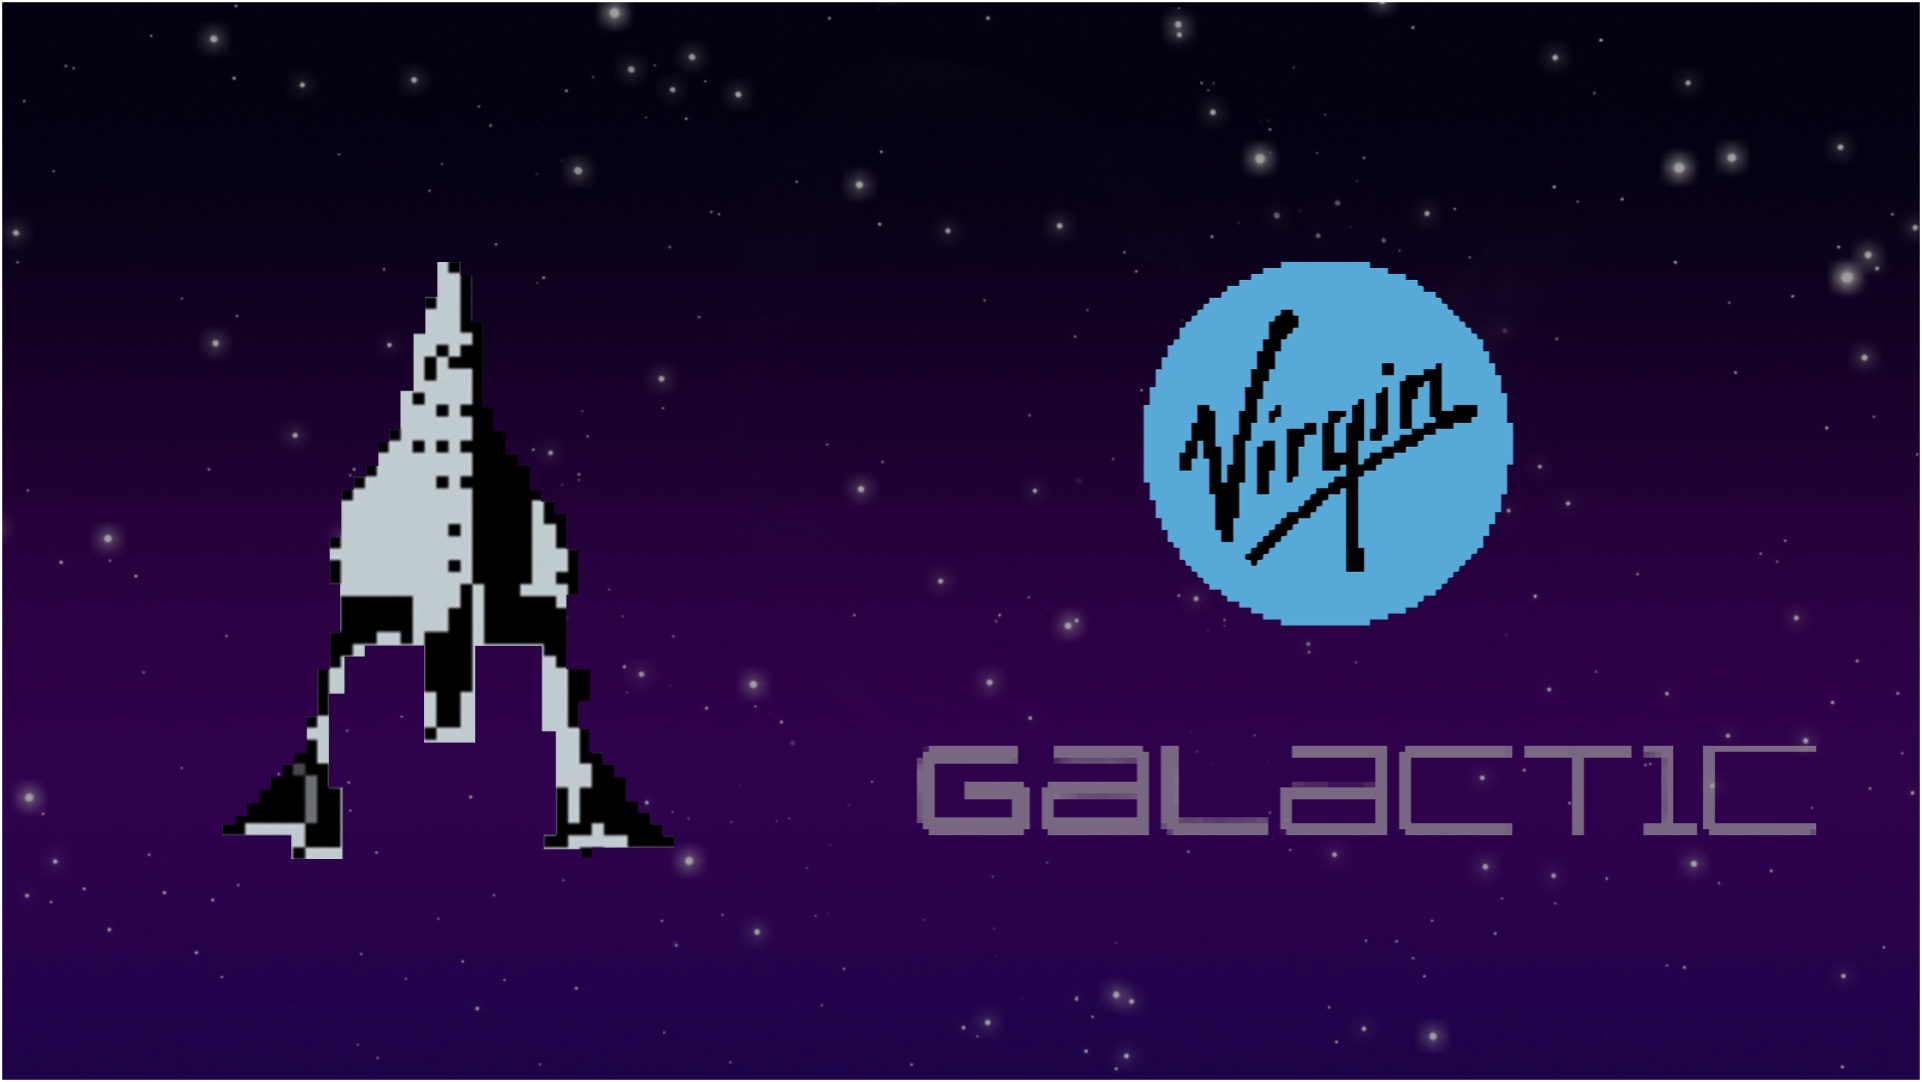
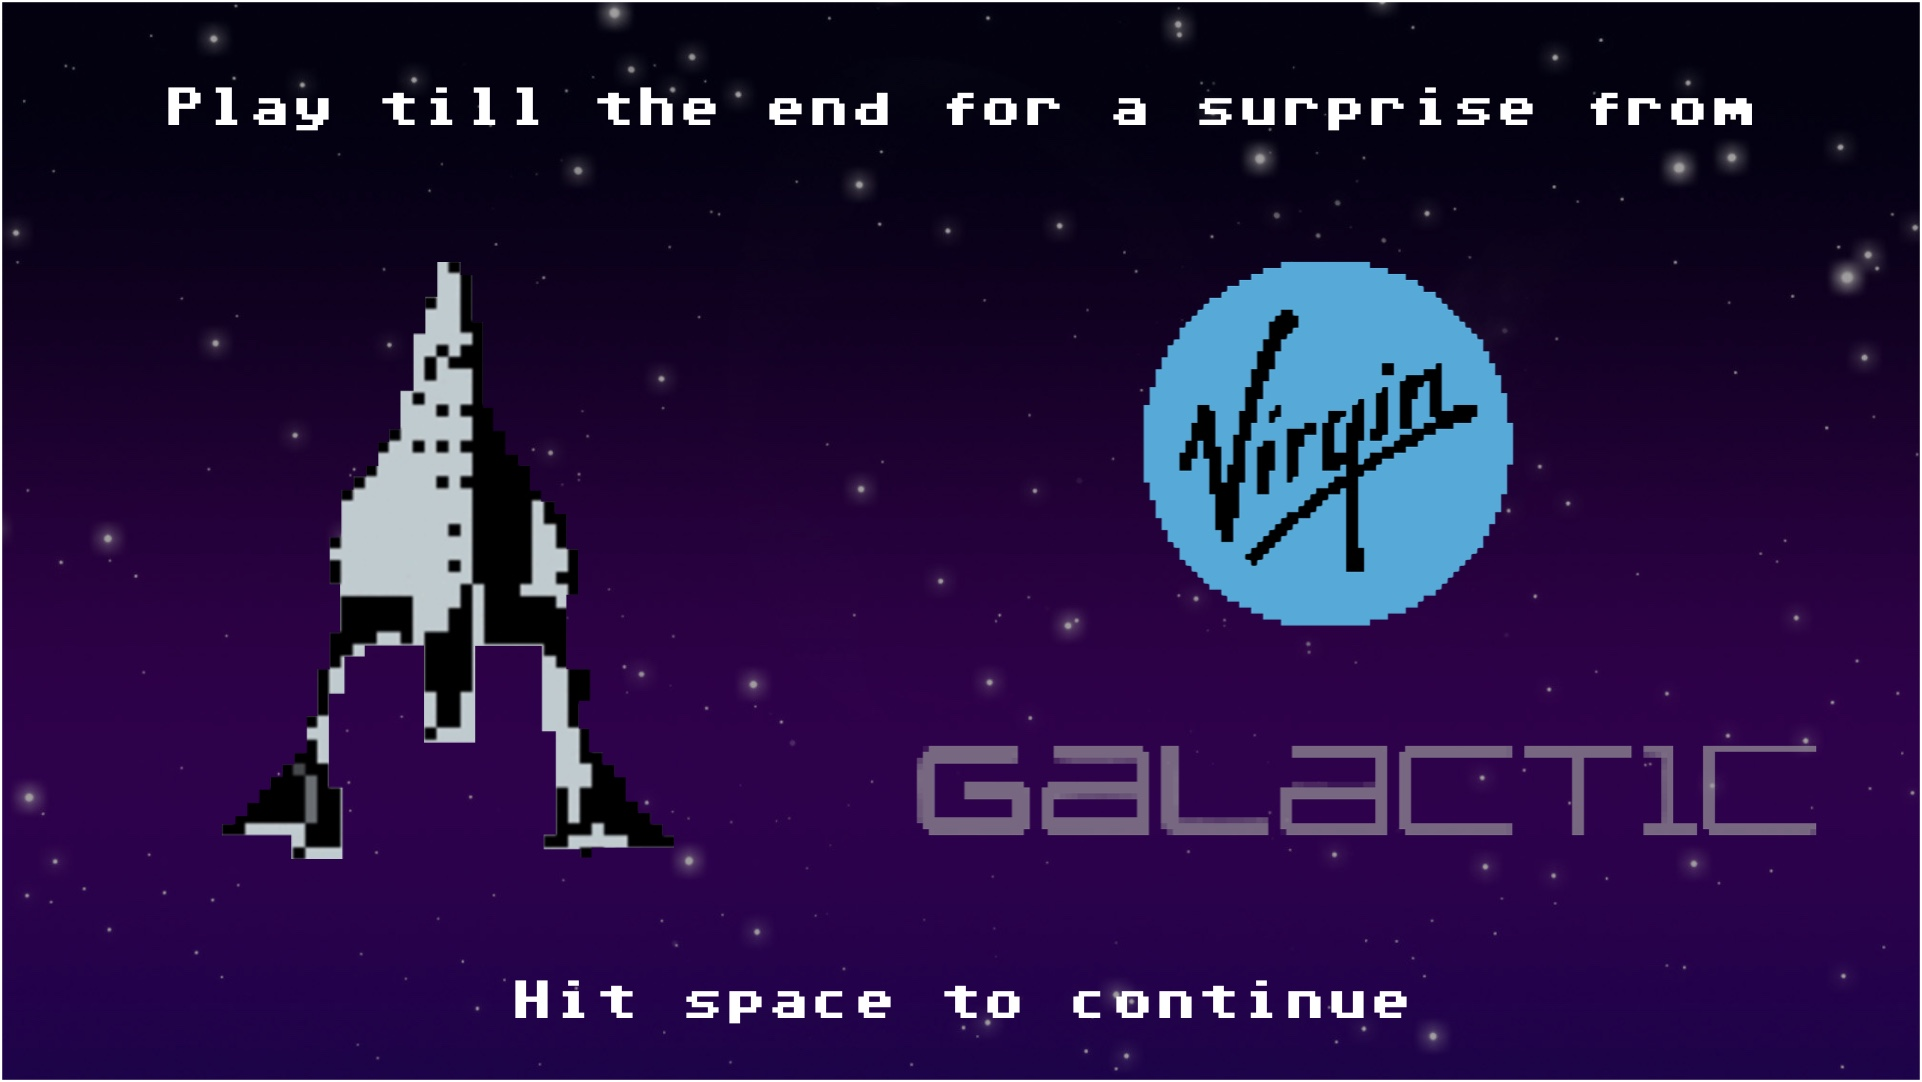
Changes for flow

diff --git a/app.js b/app.js
@@ -85,9 +85,10 @@ function maybeGiveInstructions(keycode) {
 
 function mission(keycode) {
   document.getElementById("startGameScreen").style.display = "row";
+  console.log("ewewew", keycode)
   if (keycode == 32) {
-    blastar()
     document.getElementById("startGameScreen").style.display = "none";
+    blastar()
   }
 }
 
@@ -111,7 +112,7 @@ function startGame() {
   ]
   changeRocket()
   mainProgram()
-  move()
+  moveFirstHalf()
 }
 
 function mainProgram() {
@@ -682,7 +683,7 @@ var kSecondsAfterCTA = 45;
 var kFuelPercentangeForCTA = 0;
 var kIntervalInMilisecondsLosing1Percent = (kSecondsAfterCTA / (100 - kFuelPercentangeForCTA)) * 1000;
 
-function move() {
+function moveFirstHalf() {
   if (hasAlreadyMoved == false) {
     hasAlreadyMoved = true;
     var elem = document.getElementById("fuel-green");
@@ -690,7 +691,28 @@ function move() {
     var initialWidth = elem.getBoundingClientRect().width;
     var id = setInterval(frame, kIntervalInMilisecondsLosing1Percent);
     function frame() {
-      if (widthPercentage <= kFuelPercentangeForCTA) {
+      if (widthPercentage <= 50) {
+        clearInterval(id);
+        showTweet();
+        hasAlreadyMoved = false;
+        return;
+      }
+      widthPercentage--;
+      elem.style.width = initialWidth * (widthPercentage / 100) + "px";
+    }
+  }
+}
+
+function moveSecondHalf() {
+  document.getElementById('tweetScreen').style.display = 'none';
+  if (hasAlreadyMoved == false) {
+    hasAlreadyMoved = true;
+    var elem = document.getElementById("fuel-green");
+    var widthPercentage = 50;
+    var initialWidth = elem.getBoundingClientRect().width;
+    var id = setInterval(frame, kIntervalInMilisecondsLosing1Percent);
+    function frame() {
+      if (widthPercentage <= 10) {
         clearInterval(id);
         displayRedirectCTA();
         stopLoop();
@@ -701,6 +723,11 @@ function move() {
     }
   }
 }
+
+function showTweet() {
+  document.getElementById('tweetScreen').style.display = 'block';
+}
+
 
 function displayFuelCTA() {
   document.getElementById('fuel-cta').style.display = 'block';
@@ -723,5 +750,3 @@ $(function() {
     inKey(mission)
   })
 });
-
-

diff --git a/css/style.css b/css/style.css
@@ -296,7 +296,7 @@ ul#characters li:hover {
   width: 100%;
   height: 100%;
   margin: auto;
-  background: #0c0c0c url(/img/bg_select_character.jpg) center;
+  background: #0c0c0c url(../img/bg_select_character.jpg) center;
   background-size: cover;
   padding: 48px;
 }
@@ -362,31 +362,30 @@ ul#characters li:hover {
   bottom: 0;
   display: none;
   place-items: center;
+  background-color: rgba(0, 0, 0, 0.6);
+  backdrop-filter: blur(5px);
 }
 
-.start-game-dialog-content {
+.start-game-dialog img {
   width: 100%;
   height: 100%;
-  background: #0c0c0c url(/img/virgin_bg.jpg) center;
-  background-size: cover;
+  object-fit: contain;
 }
 
-.start-game-dialog-content label {
-  height: 50px;
-  display: flex;
-  align-items: center;
-  font-size: 2vw;
-  font-family: "Commodore", sans-serif;
-  color: white;
-  justify-content: center;
+.tweet-dialog {
+  position: fixed;
+  top: 0;
+  left: 0;
+  right: 0;
+  bottom: 0;
+  display: none;
+  place-items: center;
+  background-color: rgba(0, 0, 0, 0.6);
+  backdrop-filter: blur(5px);
 }
 
-.start-game-dialog-content span {
-  height: 50px;
-  display: flex;
-  align-items: center;
-  font-size: 1.5vw;
-  font-family: "Commodore", sans-serif;
-  color: white;
-  justify-content: center;
+.tweet-dialog img {
+  width: 90%;
+  height: 100%;
+  object-fit: contain;
 }

diff --git a/index.html b/index.html
@@ -74,10 +74,7 @@
     </div>
   </div>
   <div id="startGameScreen" class="start-game-dialog">
-    <div class="start-game-dialog-content">
-      <label>Play till the end for a surprise from</label>
-      <span>Hit space to continue</span>
-    </div>
+    <img src="./img/virgin_bg.jpg" />
   </div>
   <div id="fuel-cta" class="captcha-dialog">
     <div class="captcha-dialog-content">
@@ -102,6 +99,9 @@
         </div>
       </div>
     </div>
+  </div>
+  <div id="tweetScreen" class="tweet-dialog">
+    <img src="./img/tweet.png" onclick="moveSecondHalf()" />
   </div>
   <div id="redirect_cta" class="dialog">
     <div class="dialog-content">
